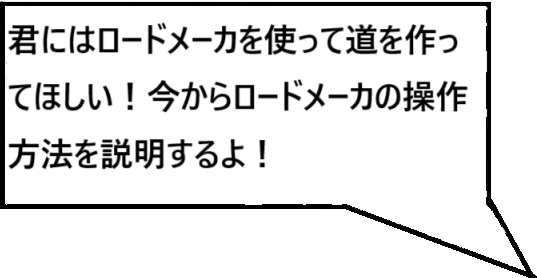
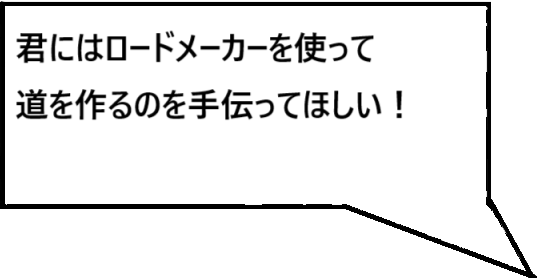
文修正

Changed region(s): [[0.0, 0.2878, 0.8939, 0.4317], [0.0, 0.0863, 0.8641, 0.2302], [0.0, 0.4892, 0.5065, 0.6331]]

diff --git a/DxLib_TGS2025/Src/Scene/Title/TitleScene.cpp b/DxLib_TGS2025/Src/Scene/Title/TitleScene.cpp
@@ -32,6 +32,7 @@ void TitleSceneInit(void)
 	title.char_image[0] = LoadGraph("Resource/Images/Start.png");	//タイトルの選択文字
 	title.char_image[1] = LoadGraph("Resource/Images/Options.png");	//タイトルの選択文字
 	title.char_image[2] = LoadGraph("Resource/Images/End.png");	//タイトルの選択文字
+	title.control_image = LoadGraph("Resource/Images/control_img.png");
 
 
 	//seの読み込み
@@ -97,7 +98,8 @@ void TitleSceneDraw(void)
 
 	DrawRotaGraphF(640.0f, 360.0f, 1.0, 0.0, title.image, TRUE);
 	DrawRotaGraphF(650.0f, 180.0f, 0.55, 0.0, title.name_image, TRUE);
-	DrawExtendFormatString(470, 360, 2.0, 2.0, GetColor(255, 255, 255), "Aボタンでステージセレクト画面へ");
+	DrawRotaGraphF(100.0f, 690.0f, 0.15f, 0.0, title.control_image, TRUE);
+	/*DrawExtendFormatString(470, 360, 2.0, 2.0, GetColor(255, 255, 255), "Aボタンでステージセレクト画面へ");*/
 	for (int i = 0; i < 3; i++)
 	{
 		DrawRotaGraphF(640.0f, 450.0f+90.0f*i, 0.6, 0.0, title.char_image[i], TRUE);

diff --git a/DxLib_TGS2025/Src/Scene/Title/TitleScene.h b/DxLib_TGS2025/Src/Scene/Title/TitleScene.h
@@ -7,6 +7,7 @@ struct Title
 	int image;
 	int char_image[3];
 	int cursor_image;
+	int control_image;
 	int name_image;
 	int char_num;
 	float cursor_x;
